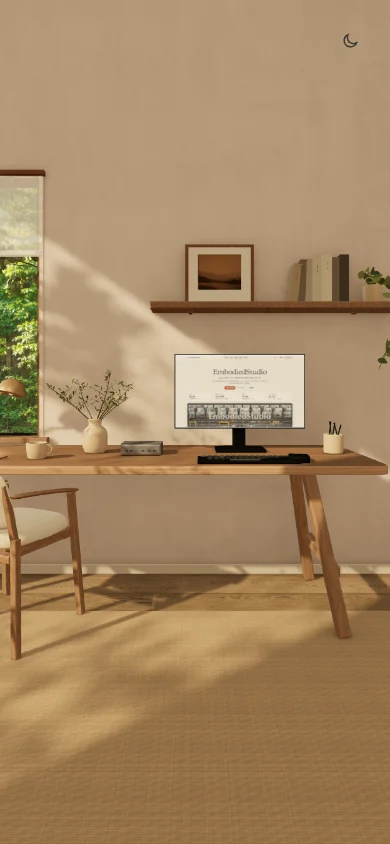
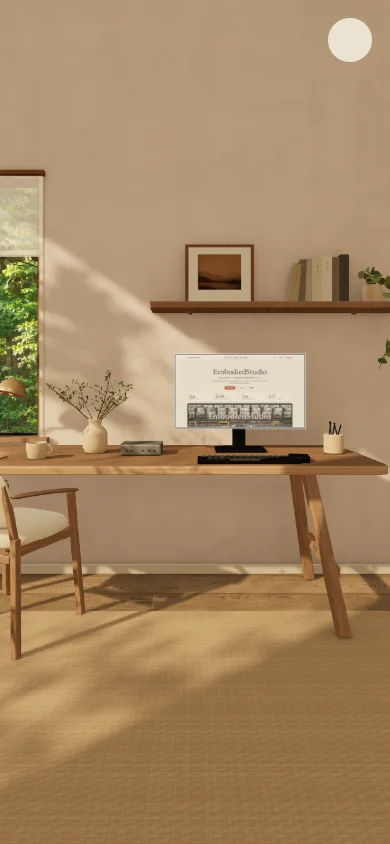
Adapt the monitor breathing rim to daylight and evening light

Changed region(s): [[0.8308, 0.0, 0.9538, 0.0924], [0.7692, 0.4313, 0.8, 0.4929], [0.4308, 0.4313, 0.4615, 0.4929]]

diff --git a/site/room.js b/site/room.js
@@ -667,8 +667,8 @@ export function buildHome(previewUrl, onUpdate, lifecycle = {}) {
   });
   const monitorSurface=add(new THREE.PlaneGeometry(screenWidth,screenHeight),display,0,0,.006,monitor);
   monitorSurface.castShadow=false;
-  // Extend just onto the dark bezel so the white rim also reads on a light page.
-  const rimMargin = .0055;
+  // Give the daylight halo room to fall off beyond the thin black bezel.
+  const rimMargin = .016;
   const monitorFeedback = new THREE.ShaderMaterial({
     transparent: true,
     depthWrite: false,
@@ -676,6 +676,7 @@ export function buildHome(previewUrl, onUpdate, lifecycle = {}) {
     uniforms: {
       uvScale: { value: new THREE.Vector2(1 + 2*rimMargin/screenWidth, 1 + 2*rimMargin/screenHeight) },
       breath: { value: .5 },
+      daylight: { value: 1 },
       hoverAmount: { value: 0 },
       hoverUv: { value: new THREE.Vector2(.5, .5) },
       pressAge: { value: 1 },
@@ -692,6 +693,7 @@ export function buildHome(previewUrl, onUpdate, lifecycle = {}) {
     fragmentShader: `
       uniform vec2 uvScale;
       uniform float breath;
+      uniform float daylight;
       uniform float hoverAmount;
       uniform vec2 hoverUv;
       uniform float pressAge;
@@ -704,22 +706,26 @@ export function buildHome(previewUrl, onUpdate, lifecycle = {}) {
         vec2 uv = (screenUv - 0.5) * uvScale + 0.5;
         vec2 edges = min(uv, 1.0 - uv) * scale;
         float distanceToRim = min(edges.x, edges.y);
-        float outerFade = smoothstep(-0.014, -0.005, distanceToRim);
-        float core = 1.0 - smoothstep(0.002, 0.011, abs(distanceToRim));
-        float halo = exp(-abs(distanceToRim) / 0.016);
+        // The day highlight straddles the dark frame; its width grows with the breath.
+        float radius = abs(distanceToRim + mix(0.001, 0.009, daylight));
+        float width = mix(0.009, 0.014 + 0.014 * breath, daylight);
+        float core = 1.0 - smoothstep(0.002, width, radius);
+        float halo = 1.0 - smoothstep(0.003, mix(0.028, 0.054, daylight), radius);
+        float outerFade = smoothstep(-0.042, -0.026, distanceToRim);
         vec2 fromHover = (uv - hoverUv) * scale;
         float follow = exp(-5.0 * dot(fromHover, fromHover));
-        float strength = mix(0.12, 0.90, breath);
-        strength = mix(strength, 0.83 + 0.17 * follow, hoverAmount);
-        float glow = outerFade * strength * (0.78 * core + (0.19 + 0.19 * hoverAmount * follow) * halo);
+        float peak = mix(0.43, 1.0, daylight);
+        float strength = mix(0.09, peak, breath);
+        strength = mix(strength, peak * (0.88 + 0.12 * follow), hoverAmount);
+        float glow = outerFade * strength * (0.76 * core + 0.24 * halo);
         float distanceFromPress = length((uv - pressUv) * scale);
-        float radius = mix(0.014, 0.23, pressAge);
-        float ring = 1.0 - smoothstep(0.009, 0.026, abs(distanceFromPress - radius));
+        float pressRadius = mix(0.014, 0.23, pressAge);
+        float ring = 1.0 - smoothstep(0.009, 0.026, abs(distanceFromPress - pressRadius));
         float center = 1.0 - smoothstep(0.012, 0.041, distanceFromPress);
         float fade = (1.0 - pressAge) * (1.0 - pressAge);
         float pulse = min(1.0, (0.67 * ring + 0.62 * center) * fade);
 
-        gl_FragColor = vec4(vec3(1.0), min(1.0, glow + pulse));
+        gl_FragColor = vec4(vec3(1.0), min(1.0, glow + mix(0.68, 1.0, daylight) * pulse));
         #include <colorspace_fragment>
       }
     `
@@ -938,6 +944,7 @@ export function buildHome(previewUrl, onUpdate, lifecycle = {}) {
   }
   function setNight(enabled) {
     const night=Boolean(enabled);
+    monitorFeedback.uniforms.daylight.value = night ? 0 : 1;
     sunWindEnabled=!night;
     sunCanopyBend.value=night ? 0 : canopyBend;
     scene.background.setHex(night ? 0x191b24 : 0xb7a286);
